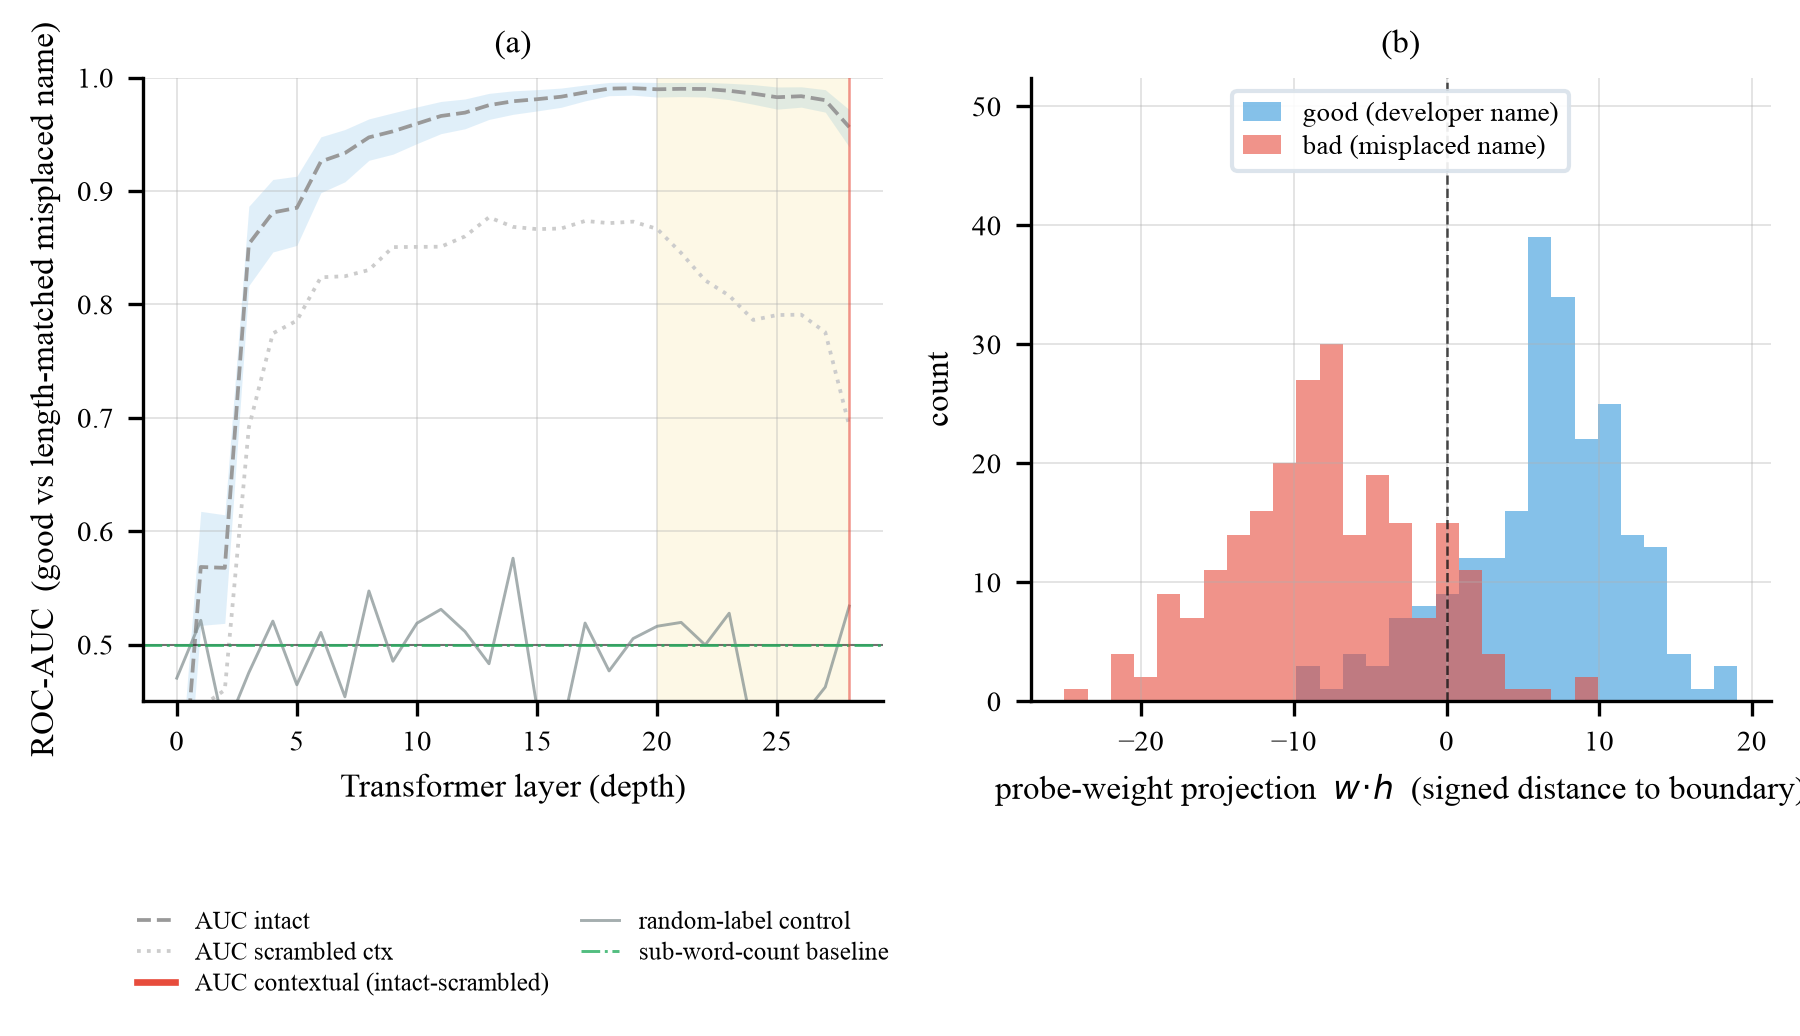
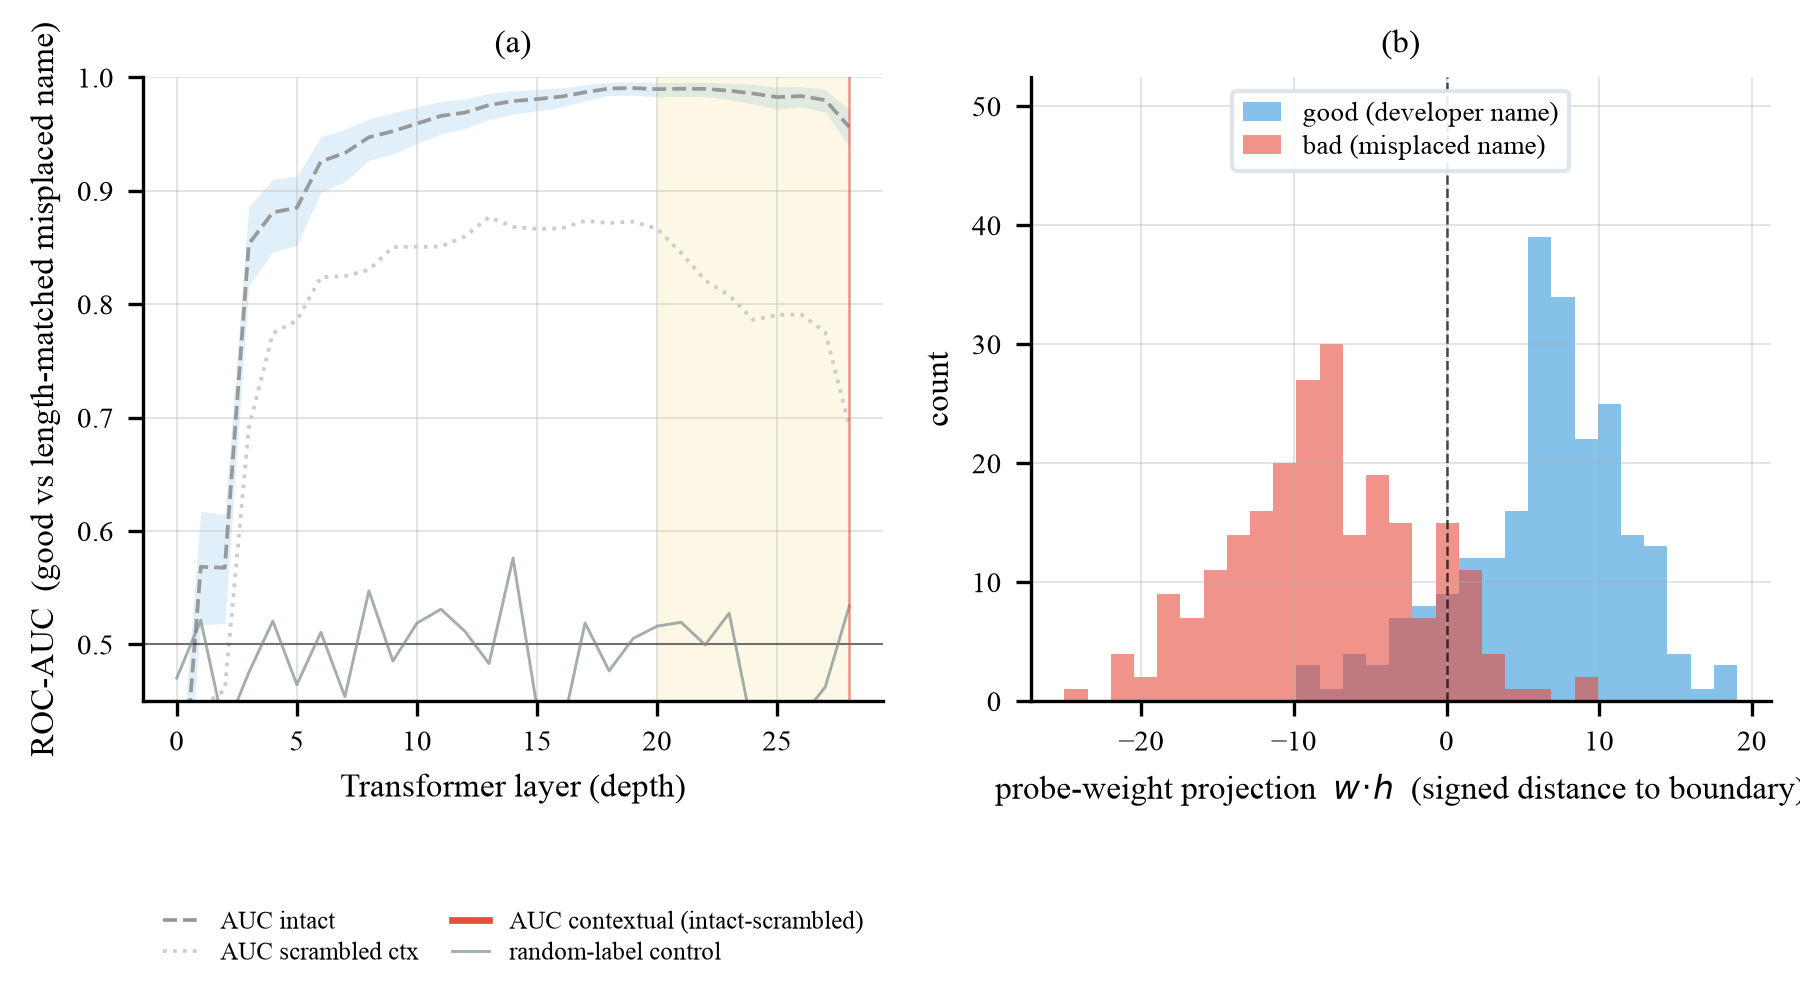
Fig 8 (RQ3 depth probe): drop sub-word-count baseline line

diff --git a/experiments/rq3_probe/plot_rq3.py b/experiments/rq3_probe/plot_rq3.py
@@ -77,8 +77,6 @@ def fig1(out_dir, fig_dir, cap_n):
     axL.plot(xs, contextual, color="#e74c3c", lw=1.6, label="AUC contextual (intact-scrambled)")
     axL.axhline(0.5, color="k", lw=0.5, alpha=0.5)
     axL.plot(xs, c["control"], color="#7f8c8d", lw=0.7, alpha=0.7, label="random-label control")
-    axL.axhline(d["length_baseline_auc"], color="#27ae60", lw=0.7, ls="-.",
-                alpha=0.8, label="sub-word-count baseline")
     third = max(1, L // 3)
     axL.axvspan(L - third, L - 1, color="#f1c40f", alpha=0.10, lw=0)
     axL.axvline(chosen, color="#e74c3c", lw=0.6, alpha=0.6)
